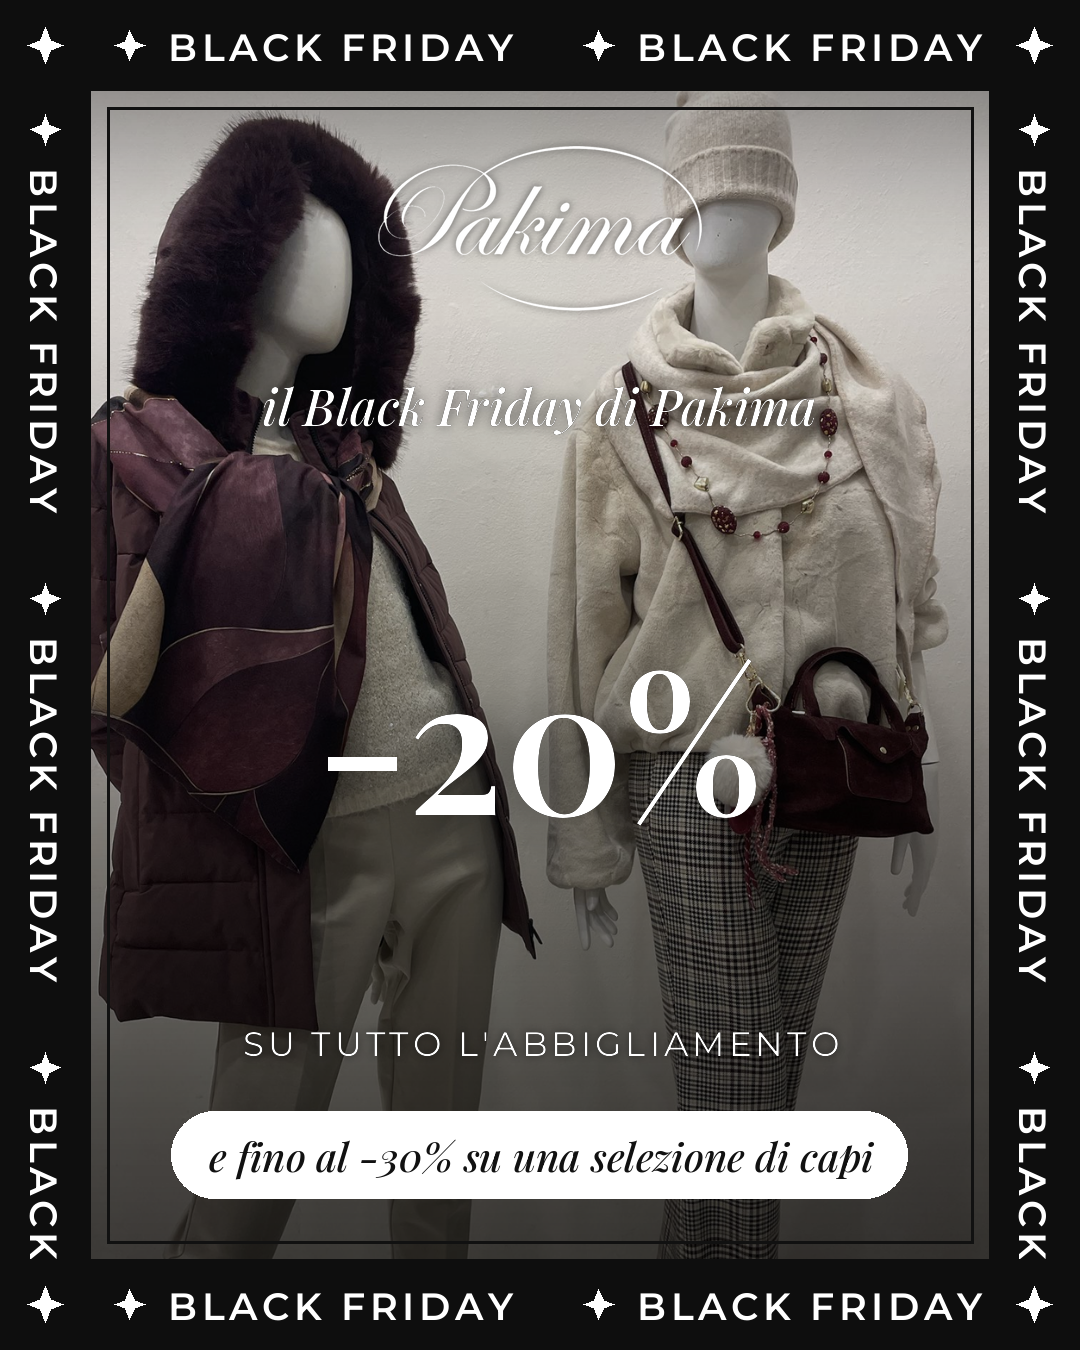
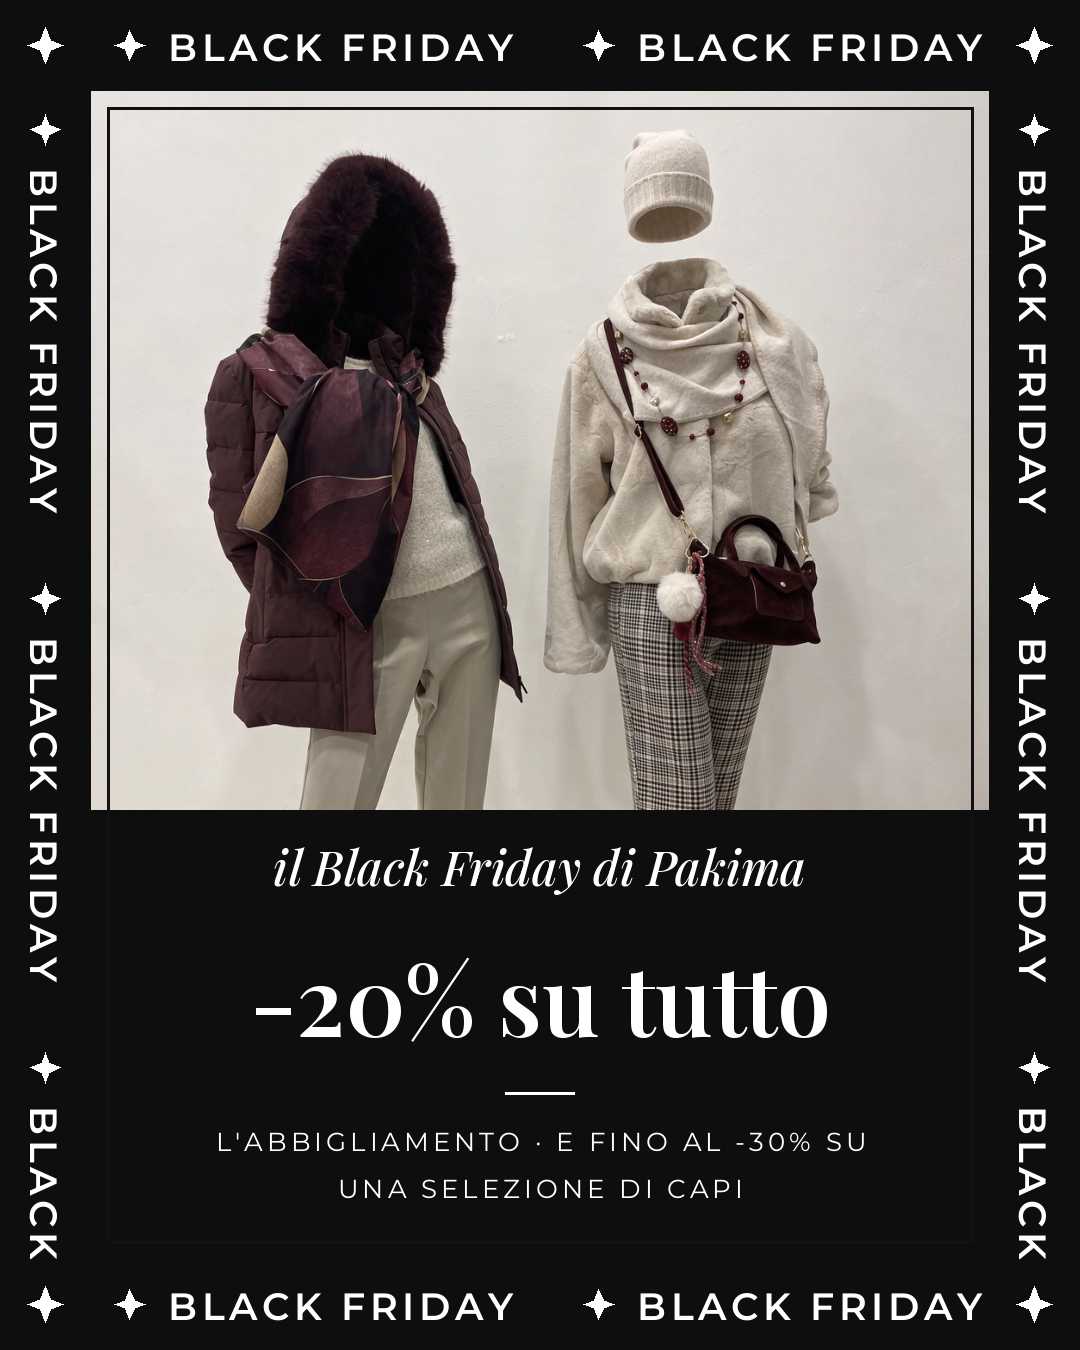
Carosello: prima foto con i capi senza manichini
Claude-Session: https://claude.ai/code/session_01TRyadBTg1JbKFooPCfPKjK

diff --git a/studio/genera.py b/studio/genera.py
@@ -367,8 +367,9 @@ class Scena:
             su_foto, col = True, colore(stile["chiaro"])
             self.tipo = "foto" if self.tipo == "clip" else self.tipo
         elif self.tipo == "pannello":
-            hf = int(H * dati.get("altezza_foto", 0.62))
-            self.foto = FotoMobile(trova_file(dati["foto"], base), W, hf, effetto, dati.get("fuoco", "centro"))
+            hf = int(H * dati.get("altezza_foto", 0.62)) - s
+            self.foto = FotoMobile(trova_file(dati["foto"], base), W - 2 * s, hf, effetto, dati.get("fuoco", "centro"))
+            self.pos_foto = (s, s)
             self.sfondo = Image.new("RGBA", (W, H), col_fondo)
             su_foto, col = True, colore(stile["chiaro"] if scuro else stile["testo"])
         elif self.tipo == "prodotto":

diff --git a/output/2026-11-25-carosello-black-friday/README.md b/output/2026-11-25-carosello-black-friday/README.md
@@ -1,7 +1,7 @@
 # Carosello Black Friday — da pubblicare oggi 25/11
 
 Pubblica le 3 immagini **in quest'ordine** come carosello Instagram (formato 4:5):
-1. `1-black-friday.png` — (in rifacimento: solo i vestiti, senza manichini) Il Black Friday di Pakima: -20% su tutto l'abbigliamento, fino al -30% su una selezione
+1. `1-black-friday.png` — Il Black Friday di Pakima: -20% su tutto l'abbigliamento, fino al -30% su una selezione
 2. `2-regalo.png` — Un regalo speciale, con il 20% di sconto
 3. `3-domenica.png` — Domenica 29 novembre siamo aperti
 
